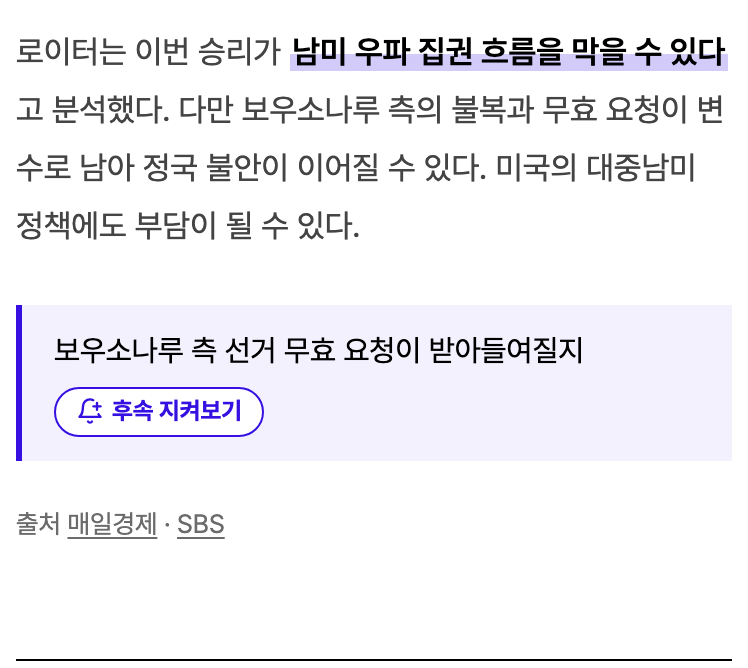
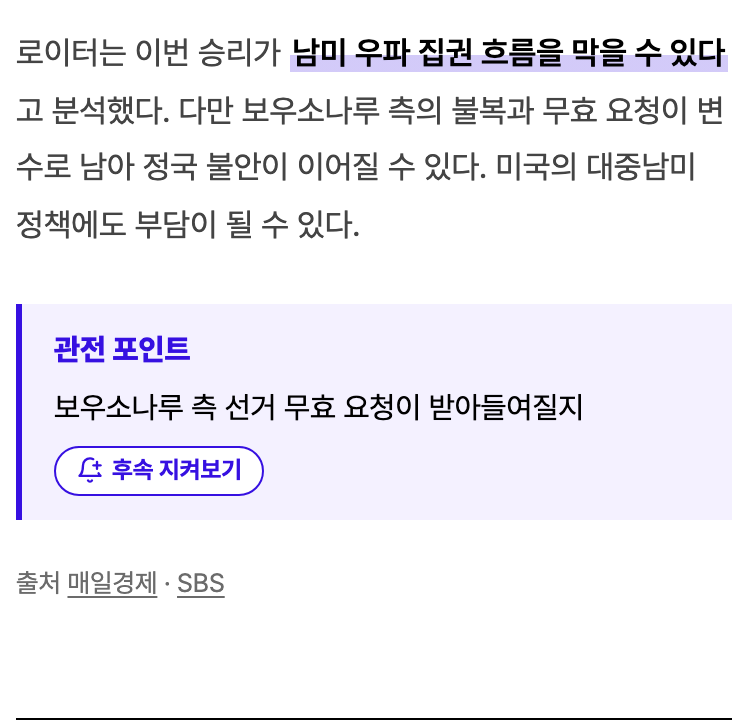
feat: 관전 포인트를 소식마다 하나로 합침
- 소식 끝 줄에 '관전 포인트' 이름 표시
- 모델은 소식별 관전 포인트만 쓰고, 모음(watch)은 소식에서 모아 메일에 사용
- 소식별 관전 포인트가 있는 뉴스레터는 맨 끝 목록을 두지 않음, 예전 구조는 유지
- 후속 판정 글 앞머리와 테스트 이름 변경, 스크린샷 3장 교체

diff --git a/apps/api/src/ai-summary/newsletterWriter.service.ts b/apps/api/src/ai-summary/newsletterWriter.service.ts
@@ -52,7 +52,7 @@ export type Story = {
   quote: { text: string; by: string };
   /** 엇갈린 주장. 같은 사안을 두고 서로 반대되는 주장이 있을 때만 2~3개, 아니면 빈 배열 */
   debate: Claim[];
-  /** 지켜볼 일: 이 소식에서 앞으로 지켜볼 일정 · 결정 · 변수 한 줄. 후속 지켜보기가 이것을 기다린다 */
+  /** 관전 포인트: 이 소식에서 앞으로 지켜볼 일정 · 결정 · 변수 한 줄. 후속 지켜보기가 이것을 기다린다 */
   next?: string;
   /** 원래 기사 목록에서의 번호 (1부터) */
   sources: number[];
@@ -83,6 +83,7 @@ export type WrittenNewsletter = {
   summary: string;
   briefing: string;
   stories: Story[];
+  /** 관전 포인트 모음: 소식마다의 next를 모은 것 (모델이 따로 쓰지 않는다). 메일 '관전 포인트' 칸이 쓴다 */
   watch: string[];
   /** 키워드 3~6개 (#50). 상세·목록의 태그, 지난 뉴스레터 검색(#20)에 쓴다 */
   keywords: string[];
@@ -117,7 +118,6 @@ export const LIMITS = {
   stats: { min: 2, max: 4 },
   timeline: { min: 3, max: 5 },
   qa: { min: 2, max: 3 },
-  watch: { max: 3, length: 60 },
   keywords: { min: 3, max: 6, length: 12 },
   /** 형광펜 강조 (#51): 소식마다 최대 개수, 한 곳 최대 길이 */
   marks: { max: 3, length: 30 },
@@ -393,10 +393,9 @@ export const writerPrompt = (
     `  - body: 경과와 맥락 ${LIMITS.body.min}~${LIMITS.body.max}자, 문단 1~2개. 문단 사이는 빈 줄 하나. 템플릿 고유 항목(stats·timeline·qa·quote)과 같은 내용을 반복하지 않습니다.`,
     `  - analysis: 시사점 ${LIMITS.analysis.min}~${LIMITS.analysis.max}자. 파급 효과, 이해관계자, 쟁점, 전망. 기사에 근거가 없는 예측은 하지 않습니다.`,
     `  - debate: 엇갈린 주장. 같은 사안을 두고 기사에 **서로 반대되는 주장**이 있을 때만 (한쪽은 A라고 하고 다른 쪽은 A가 아니라고 하거나, 같은 일을 정반대로 평가할 때. 예: 여당은 "적법한 절차" · 야당은 "권한 남용"). 주장하는 쪽마다 하나씩 2~${LIMITS.debate.max}개 (side: 주장하는 쪽 — 정당 · 기관 · 인물, 사설이나 칼럼이면 그 언론사 / claim: 그쪽 주장 ${LIMITS.debate.claim}자 이내 / source: 그 주장이 실린 기사의 언론사 이름 그대로). 강조점만 다르거나, 같은 사실을 다르게 전할 뿐이거나, 한쪽 주장만 있으면 빈 배열. 양쪽을 같은 길이 · 같은 어조로 쓰고 어느 편도 들지 않으며, 기사에 없는 주장은 지어내지 않습니다.`,
-    `  - next: 지켜볼 일. 이 소식에서 앞으로 지켜볼 일정 · 결정 · 변수 하나를 ${LIMITS.next}자 이내의 물음이나 명사구로 (예: "보우소나루 측 선거 무효 요청이 받아들여질지", "공모가와 공모 주식 수 확정"). 기사에 나온 일정 · 변수만 쓰고, 마땅한 일정이 없으면 이 일의 다음 진전이 나올 지점을 씁니다. 독자는 이것을 보고 후속 소식을 받을지 정합니다.`,
+    `  - next: 관전 포인트. 이 소식에서 앞으로 지켜볼 일정 · 결정 · 변수 하나를 ${LIMITS.next}자 이내의 물음이나 명사구로 (예: "보우소나루 측 선거 무효 요청이 받아들여질지", "공모가와 공모 주식 수 확정"). 기사에 나온 일정 · 변수만 쓰고, 마땅한 일정이 없으면 이 일의 다음 진전이 나올 지점을 씁니다. 독자는 이것을 보고 후속 소식을 받을지 정합니다.`,
     '  - sources: 이 소식의 근거 기사 번호 (가장 대표적인 기사를 먼저).',
     '  - imageQuery: 이 소식에 어울리는 사진 검색어. 영어 2~4단어. 사람이 나오지 않는 사물·풍경 위주로 (자료 사진 속 인물이 기사 속 인물로 오해받지 않게). 실존 인물 이름·기업 로고 금지 (예: "stock market screen", "farmland korea", "ballot box").',
-    `- watch: 관전 포인트. 앞으로 지켜볼 일정·변수 1~${LIMITS.watch.max}개, 하나에 ${LIMITS.watch.length}자 이내. 기사에 나온 것만.`,
     `- keywords: 이 뉴스레터의 핵심 키워드 ${LIMITS.keywords.min}~${LIMITS.keywords.max}개, 하나에 ${LIMITS.keywords.length}자 이내. 독자가 검색할 만한 고유명사·주제어(예: 코스피, 가상자산 과세, CPTPP). # 기호와 분야 이름 자체는 넣지 않고, 중요한 순서로.`,
     ...(category && DEBATE_CATEGORIES.includes(category)
       ? [
@@ -477,18 +476,9 @@ export const WRITER_SCHEMA = {
         additionalProperties: false,
       },
     },
-    watch: { type: 'array', items: { type: 'string' } },
     keywords: { type: 'array', items: { type: 'string' } },
   },
-  required: [
-    'title',
-    'subtitle',
-    'summary',
-    'briefing',
-    'stories',
-    'watch',
-    'keywords',
-  ],
+  required: ['title', 'subtitle', 'summary', 'briefing', 'stories', 'keywords'],
   additionalProperties: false,
 };
 
@@ -676,7 +666,8 @@ export function normalize(
     summary: plain(raw.summary),
     briefing: plain(raw.briefing),
     stories,
-    watch: list(raw.watch, LIMITS.watch.max),
+    // 관전 포인트 모음 = 소식마다의 next. 같은 내용을 모델이 두 번 쓰지 않게
+    watch: stories.map((s) => s.next).filter((n): n is string => !!n),
     keywords: keywords(raw.keywords),
   };
   if (!result.title) throw new Error('빈 제목');

diff --git a/apps/api/src/ai-summary/newsletter.spec.ts b/apps/api/src/ai-summary/newsletter.spec.ts
@@ -270,7 +270,7 @@ describe('2단계: 쓰기', () => {
     expect(prompt).not.toContain('해요체');
   });
 
-  it('요약은 짧게, 소식은 리드·본문·핵심 사실·시사점, 끝에 관전 포인트', () => {
+  it('요약은 짧게, 소식은 리드·본문·핵심 사실·시사점, 소식마다 관전 포인트', () => {
     const prompt = writerPrompt(articles);
     expect(prompt).toContain(`2~3문장, ${LIMITS.summary}자 이내`);
     for (const key of [
@@ -280,7 +280,7 @@ describe('2단계: 쓰기', () => {
       'body',
       'template',
       'analysis',
-      'watch',
+      'next',
       'keywords',
     ]) {
       expect(prompt).toContain(`- ${key}:`);
@@ -299,13 +299,14 @@ describe('응답 정리', () => {
     expect(clean('"A" 그리고 "B"')).toBe('"A" 그리고 "B"');
   });
 
-  it('근거 번호를 원래 기사 번호로 바꾸고, 소식·사실·관전 포인트 개수를 제한한다', () => {
+  it('근거 번호를 원래 기사 번호로 바꾸고, 소식·사실 개수를 제한하며, 관전 포인트 모음은 소식에서 모은다', () => {
     const toOriginal = (n: number) => ({ 1: 5, 2: 8 })[n];
     const result = normalize(
       written({
         stories: Array.from({ length: 4 }, (_, i) => ({
           ...written().stories[0],
           heading: `소식 ${i}`,
+          next: i % 2 ? `소식 ${i}의 관전 포인트` : '',
           template: 'numbers' as const,
           stats: [
             { label: '- 코스피', value: '5,469.47', note: '-1.46%' },
@@ -326,7 +327,8 @@ describe('응답 정리', () => {
     // 글머리는 걷어 내고, 값이 빈 줄은 버리고, 지표는 최대 4개
     expect(result.stories[0].stats).toHaveLength(4);
     expect(result.stories[0].stats[0].label).toBe('코스피');
-    expect(result.watch).toHaveLength(3);
+    // 모델이 준 watch는 쓰지 않고, 남은 소식 3개 중 관전 포인트가 있는 것만
+    expect(result.watch).toEqual(['소식 1의 관전 포인트']);
   });
 
   it('키워드: # 제거, 너무 긴 것 버리기, 대소문자 무시 중복 제거, 최대 6개 (#50)', () => {

diff --git a/apps/api/src/ai-summary/next.spec.ts b/apps/api/src/ai-summary/next.spec.ts
@@ -20,10 +20,12 @@ const story = (next?: string) => ({
   imageQuery: 'ballot box',
 });
 
-describe('지켜볼 일 (소식마다 후속 지켜보기의 기준)', () => {
+describe('관전 포인트 (소식마다 하나, 후속 지켜보기의 기준)', () => {
   it('쓰기 프롬프트에 소식마다 next를 물음 · 명사구로 쓰라는 지시가 있다', () => {
     const prompt = writerPrompt(prepare([{ title: '기사', content: '본문' }]));
-    expect(prompt).toContain('- next: 지켜볼 일');
+    expect(prompt).toContain('- next: 관전 포인트');
+    // 맨 끝 관전 포인트 모음은 소식마다의 것을 모아 만들므로 따로 묻지 않는다
+    expect(prompt).not.toContain('- watch:');
     expect(prompt).toContain(`${LIMITS.next}자 이내`);
   });
 
@@ -50,12 +52,20 @@ describe('지켜볼 일 (소식마다 후속 지켜보기의 기준)', () => {
       { source: '경향신문', link: 'https://n.news/1' },
     ]);
     expect(html).toContain(
-      '<p class="next"><span>보우소나루 측 선거 무효 요청이 받아들여질지</span></p><p class="credit">',
+      '<p class="next"><strong>관전 포인트</strong><span>보우소나루 측 선거 무효 요청이 받아들여질지</span></p><p class="credit">',
     );
     const parsed = parseNewsletterHtml(html);
     expect(parsed.stories[0].next).toBe(
       '보우소나루 측 선거 무효 요청이 받아들여질지',
     );
     expect(parsed.stories[1].next).toBeUndefined();
+    // 관전 포인트 모음 = 소식마다의 것. 맨 끝 목록은 따로 두지 않고, 메일용 watch는 소식에서 모은다
+    expect(written.watch).toEqual([
+      '보우소나루 측 선거 무효 요청이 받아들여질지',
+    ]);
+    expect(html).not.toContain('<section class="watch">');
+    expect(parsed.watch).toEqual([
+      '보우소나루 측 선거 무효 요청이 받아들여질지',
+    ]);
   });
 });

diff --git a/apps/api/src/ai-summary/newsletterHtml.ts b/apps/api/src/ai-summary/newsletterHtml.ts
@@ -143,7 +143,7 @@ const TEMPLATE_PARTS: Record<Story['template'], (story: Story) => string[]> = {
  * 뉴스레터 본문 HTML. 예전에는 모델이 인라인 스타일까지 매번 다르게 만들었습니다 (#43).
  * 구조와 class만 만들고, 모양은 웹이 사이트 테마(색·글꼴·다크 모드)로 입힙니다.
  *
- * 에디터 브리핑 → 소식(템플릿별) → 관전 포인트
+ * 에디터 브리핑 → 소식(템플릿별, 끝에 관전 포인트) → 관전 포인트 모음(예전 구조만)
  *
  * articles: 원래 기사 목록. 소식의 sources(1부터)로 출처 언론사와 원문 링크를 찾는다
  */
@@ -160,9 +160,9 @@ export function renderNewsletterHtml(
       story.lead ? `<p class="lead">${escapeHtml(story.lead)}</p>` : '',
       figure(story),
       ...TEMPLATE_PARTS[story.template](story),
-      // 지켜볼 일: 소식 끝, 출처 위. 이름 없이 한 줄만 두고, 화면은 이 옆에 '후속 지켜보기' 단추를 둔다
+      // 관전 포인트: 소식 끝, 출처 위. 화면은 이 옆에 '후속 지켜보기' 단추를 둔다
       story.next
-        ? `<p class="next"><span>${escapeHtml(story.next)}</span></p>`
+        ? `<p class="next"><strong>관전 포인트</strong><span>${escapeHtml(story.next)}</span></p>`
         : '',
       credit(story, articles),
       '</article>',
@@ -174,7 +174,8 @@ export function renderNewsletterHtml(
       ? `<section class="briefing"><h3>에디터 브리핑</h3>${paragraphs(newsletter.briefing)}</section>`
       : '',
     stories.join(''),
-    newsletter.watch.length
+    // 맨 끝 관전 포인트 모음: 소식마다 관전 포인트가 있으면 같은 내용이라 두지 않는다 (예전 구조만)
+    newsletter.watch.length && !newsletter.stories.some((s) => s.next)
       ? `<section class="watch"><h3>관전 포인트</h3><ul>${items(newsletter.watch)}</ul></section>`
       : '',
     '</div>',

diff --git a/apps/api/src/edition/parse.ts b/apps/api/src/edition/parse.ts
@@ -31,7 +31,7 @@ export type ParsedStory = {
   image?: { url: string; alt: string; caption: Link[] };
   blocks: Block[];
   sources: Link[];
-  /** 지켜볼 일 (예전 뉴스레터에는 없다) */
+  /** 관전 포인트 (예전 뉴스레터에는 없다) */
   next?: string;
 };
 
@@ -167,22 +167,30 @@ const sourceLinks = (credit: Element): Link[] =>
           .map((name) => ({ text: name })),
   );
 
+/** 관전 포인트 모음: 소식마다 있으면 그것, 없으면(예전 구조) 맨 끝 목록 */
+const watchOf = (root: Element, stories: ParsedStory[]) => {
+  const own = stories.map((s) => s.next).filter((n): n is string => !!n);
+  if (own.length) return own;
+  return [...root.querySelectorAll('section.watch li')]
+    .map((li) => text(li))
+    .filter(Boolean);
+};
+
 /** 구조가 없는 예전 뉴스레터(#43 이전)는 소식이 빈 채로 돌려준다. 메일은 제목·요약만 쓴다 */
 export function parseNewsletterHtml(html?: string | null): ParsedNewsletter {
   const empty = { briefing: '', stories: [], watch: [] };
   if (!html) return empty;
   const root = new JSDOM(html).window.document.querySelector('.newsletter');
   if (!root) return empty;
+  const stories = [...root.querySelectorAll('article.story')]
+    .map(parseStory)
+    .filter((s) => s.heading);
   const briefing = root.querySelector('section.briefing');
   briefing?.querySelector('h3')?.remove();
   return {
     briefing: text(briefing),
-    stories: [...root.querySelectorAll('article.story')]
-      .map(parseStory)
-      .filter((s) => s.heading),
-    watch: [...root.querySelectorAll('section.watch li')]
-      .map((li) => text(li))
-      .filter(Boolean),
+    stories,
+    watch: watchOf(root, stories),
   };
 }
 

diff --git a/apps/web/src/app/articles/detail/[slug]/_components/content/FollowLayer.tsx b/apps/web/src/app/articles/detail/[slug]/_components/content/FollowLayer.tsx
@@ -17,7 +17,7 @@ interface Props {
 
 /**
  * 후속 지켜보기: 소식마다 끝에 단추 하나. 다 읽은 직후가 '그래서 어떻게 되는데?'가 남는 때라서.
- * '지켜볼 일'(p.next)이 있으면 그 줄 오른쪽 끝에 (무엇을 기다리는지 바로 옆에), 없으면(예전 뉴스레터) 출처 위에 한 줄로.
+ * 소식별 '관전 포인트'(p.next)가 있으면 그 줄 오른쪽 끝에 (무엇을 기다리는지 바로 옆에), 없으면(예전 뉴스레터) 출처 위에 한 줄로.
  * 켜 두면 이어지는 새 소식이 나왔을 때 마이페이지 '지켜보기'와 머리글에 알린다 (판정은 하루 한 번, 서버).
  * 본문은 React 밖 HTML이라, 소식마다 자리(span)를 만들어 그 안에 단추를 그린다
  */
@@ -41,7 +41,7 @@ export default function FollowLayer({ newsletterId, rootRef, content }: Props) {
 		const root = rootRef.current;
 		if (!root) return;
 		let made: HTMLElement[] = [];
-		// 예전 뉴스레터(지켜볼 일 없음)는 따로 만든 줄
+		// 예전 뉴스레터(소식별 관전 포인트 없음)는 따로 만든 줄
 		let rows: HTMLElement[] = [];
 		const build = () => {
 			made.forEach((slot) => slot.remove());

diff --git a/apps/web/src/app/articles/detail/[slug]/_components/content/ArticleContent.tsx b/apps/web/src/app/articles/detail/[slug]/_components/content/ArticleContent.tsx
@@ -466,7 +466,7 @@ const NewsletterContentStyled = styled.article`
 			}
 		}
 
-		/* 지켜볼 일: 소식 끝 한 줄, 오른쪽 끝에 후속 지켜보기 단추 (FollowLayer) */
+		/* 관전 포인트: 소식 끝 한 줄, 오른쪽 끝에 후속 지켜보기 단추 (FollowLayer) */
 		.next {
 			display: flex;
 			align-items: center;
@@ -478,6 +478,13 @@ const NewsletterContentStyled = styled.article`
 			font-size: ${({ theme }) => theme.fontSize.small};
 			line-height: 1.5;
 			color: ${({ theme }) => theme.color.text};
+
+			strong {
+				flex-shrink: 0;
+				margin: 0;
+				font-weight: ${({ theme }) => theme.fontWeight.bold};
+				color: ${({ theme }) => theme.color.primary};
+			}
 
 			span {
 				margin: 0;
@@ -500,7 +507,7 @@ const NewsletterContentStyled = styled.article`
 			}
 		}
 
-		/* 예전 뉴스레터(지켜볼 일 없음): 출처 위에 단추만 오른쪽 끝에 */
+		/* 예전 뉴스레터(소식별 관전 포인트 없음): 출처 위에 단추만 오른쪽 끝에 */
 		.follow-row {
 			display: flex;
 			justify-content: flex-end;

diff --git a/apps/api/src/follows/follows.spec.ts b/apps/api/src/follows/follows.spec.ts
@@ -123,7 +123,7 @@ describe('FollowsService', () => {
     });
   });
 
-  it("지켜보기: '지켜볼 일'이 있으면 판정 글 맨 앞에 둔다", async () => {
+  it("지켜보기: '관전 포인트'가 있으면 판정 글 맨 앞에 둔다", async () => {
     const { prisma, service } = setup();
     prisma.newsletter.findUnique.mockResolvedValue({
       contentAsHTML: renderNewsletterHtml({
@@ -137,7 +137,7 @@ describe('FollowsService', () => {
     await service.follow(7, 10, 1);
     const { create } = prisma.storyFollow.upsert.mock.calls[0][0];
     expect(create.text.split('\n')[0]).toBe(
-      '지켜볼 일: 선거 무효 요청이 받아들여질지',
+      '관전 포인트: 선거 무효 요청이 받아들여질지',
     );
   });
 

diff --git a/apps/api/src/follows/follows.service.ts b/apps/api/src/follows/follows.service.ts
@@ -16,11 +16,11 @@ import {
 
 /**
  * 판정 · 임베딩에 쓰는 소식 글 (제목 · 리드 · 본문 앞부분).
- * '지켜볼 일'이 있으면 앞에 둔다: 후속 판정이 독자가 기다리는 그 일을 기준으로 찾게
+ * '관전 포인트'가 있으면 앞에 둔다: 후속 판정이 독자가 기다리는 그 일을 기준으로 찾게
  */
 const textOf = (story: ParsedStory) =>
   [
-    story.next && `지켜볼 일: ${story.next}`,
+    story.next && `관전 포인트: ${story.next}`,
     story.heading,
     story.lead,
     storyText(story, 600),
